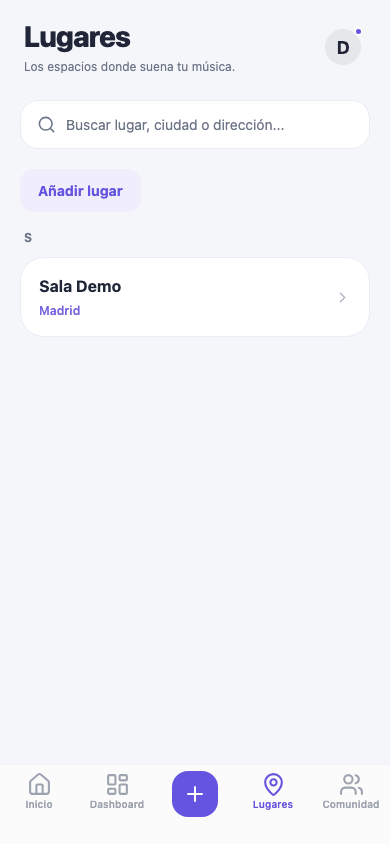
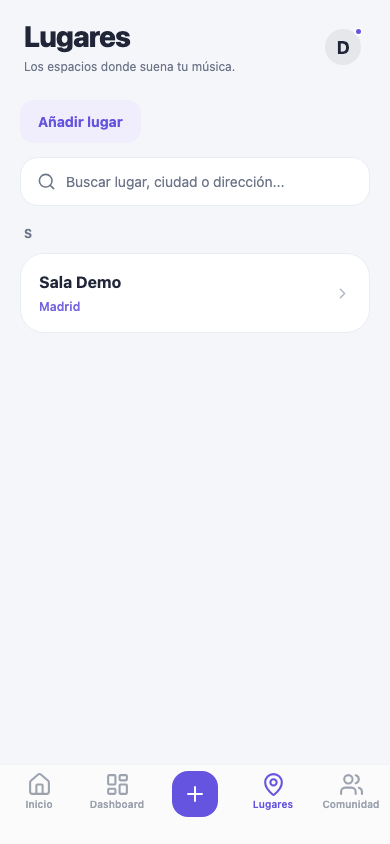
Place add venue button above search field

diff --git a/app/(tabs)/venues.tsx b/app/(tabs)/venues.tsx
@@ -154,6 +154,30 @@ export default function VenuesScreen() {
                     alignSelf: 'center',
                 }}
             >
+                <TouchableOpacity
+                    accessibilityRole="button"
+                    accessibilityLabel={t('add_venue')}
+                    onPress={() => setIsAddModalVisible(true)}
+                    style={{
+                        alignSelf: 'flex-start',
+                        marginHorizontal: 20,
+                        marginBottom: 14,
+                        paddingHorizontal: 18,
+                        paddingVertical: 13,
+                        borderRadius: 14,
+                        backgroundColor: isDark ? '#292743' : '#f0edfc',
+                    }}
+                >
+                    <Text
+                        style={{
+                            color: isDark ? '#bdb0f5' : '#6554df',
+                            fontSize: 14,
+                            fontWeight: '700',
+                        }}
+                    >
+                        {t('add_venue')}
+                    </Text>
+                </TouchableOpacity>
                 <View
                     style={{
                         marginHorizontal: 20,
@@ -210,28 +234,6 @@ export default function VenuesScreen() {
                     }
                     showsVerticalScrollIndicator={false}
                 >
-                    <TouchableOpacity
-                        accessibilityRole="button"
-                        accessibilityLabel={t('add_venue')}
-                        onPress={() => setIsAddModalVisible(true)}
-                        style={{
-                            alignSelf: 'flex-start',
-                            paddingHorizontal: 18,
-                            paddingVertical: 13,
-                            borderRadius: 14,
-                            backgroundColor: isDark ? '#292743' : '#f0edfc',
-                        }}
-                    >
-                        <Text
-                            style={{
-                                color: isDark ? '#bdb0f5' : '#6554df',
-                                fontSize: 14,
-                                fontWeight: '700',
-                            }}
-                        >
-                            {t('add_venue')}
-                        </Text>
-                    </TouchableOpacity>
                     {isLoading ? (
                         <ActivityIndicator
                             color="#8270e4"
